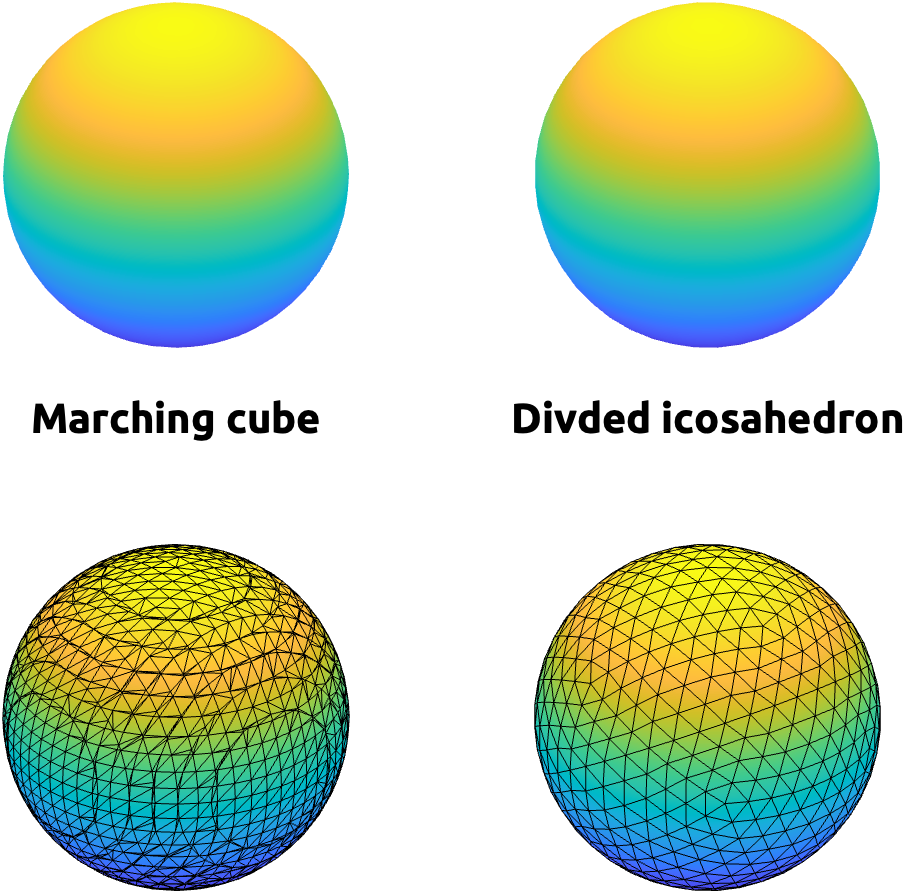
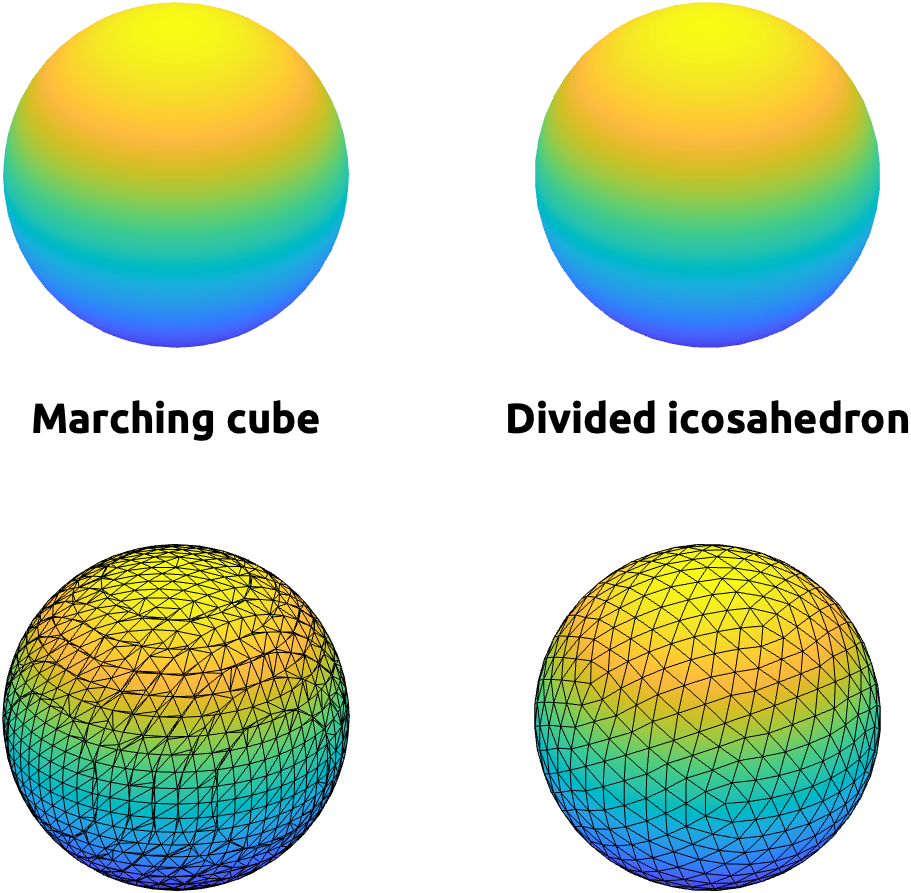
surf-fig-typo-

diff --git a/_posts/2025-03-23-surf/make_spheres.m b/_posts/2025-03-23-surf/make_spheres.m
@@ -23,14 +23,14 @@ icoSphere = struct();
 [icoSphere.vertices, icoSphere.faces] = icosphere(3);
 
 clf;
-set(gcf, Position=[1977 1 510 521])
+set(gcf, Position=[1000 1 510 521])
 axes(Position=[0 0.5 0.5 .5])
-p = patch(marchingSphere, FaceColor='interp', EdgeColor='w');
+p = patch(marchingSphere, FaceColor='interp', EdgeColor='none');
 p.FaceVertexCData = marchingSphere.vertices(:,3);
 view(3); axis image off
 
 axes(Position=[0.5 0.5 0.5 .5])
-p = patch(icoSphere, FaceColor='interp', EdgeColor='w');
+p = patch(icoSphere, FaceColor='interp', EdgeColor='none');
 p.FaceVertexCData = icoSphere.vertices(:,3);
 view(3); axis image off
 
@@ -42,7 +42,7 @@ view(3); axis image off; title('Marching cube', FontSize=20)
 axes(Position=[0.5 0 0.5 .5])
 p = patch(icoSphere, FaceColor='interp', EdgeColor='k', LineStyle='-');
 p.FaceVertexCData = icoSphere.vertices(:,3);
-view(3); axis image off; title('Divded icosahedron', FontSize=20)
+view(3); axis image off; title('Divided icosahedron', FontSize=20)
 
 % colormap(flipud(brewermap(256, 'RdYlBu')))
 % colormap(flipud(brewermap(256, 'Spectral')))
